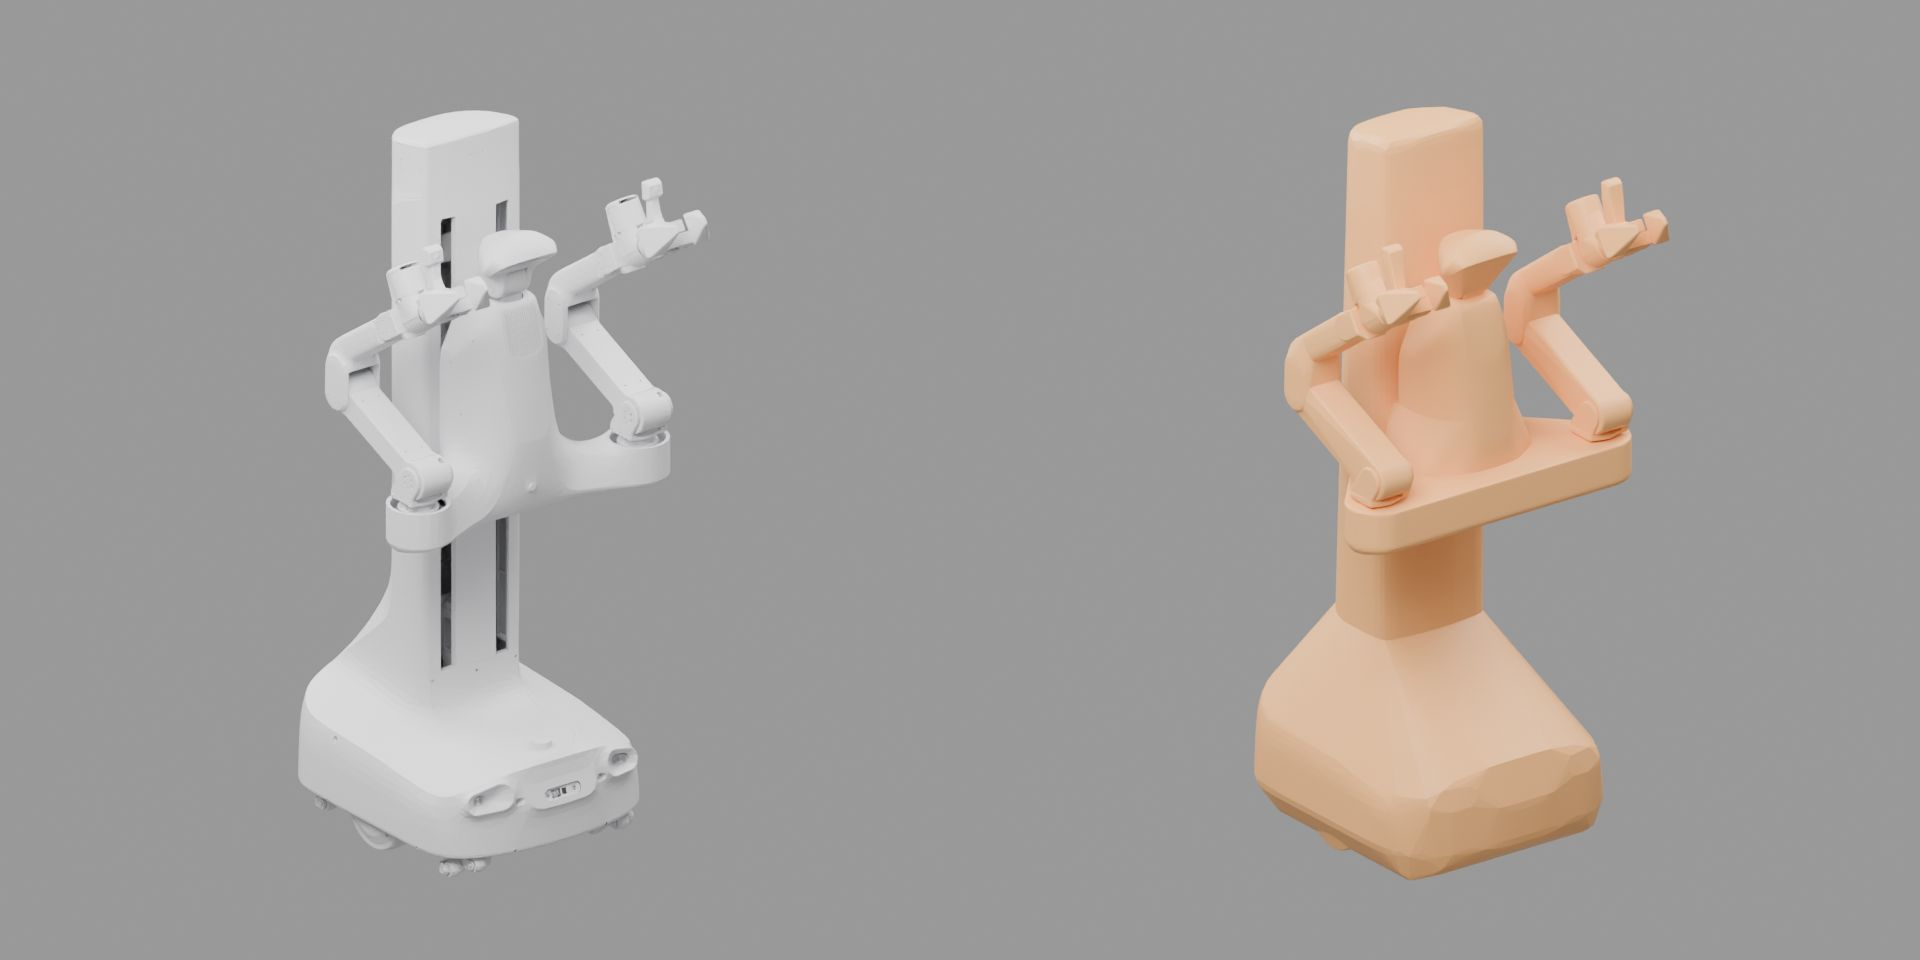
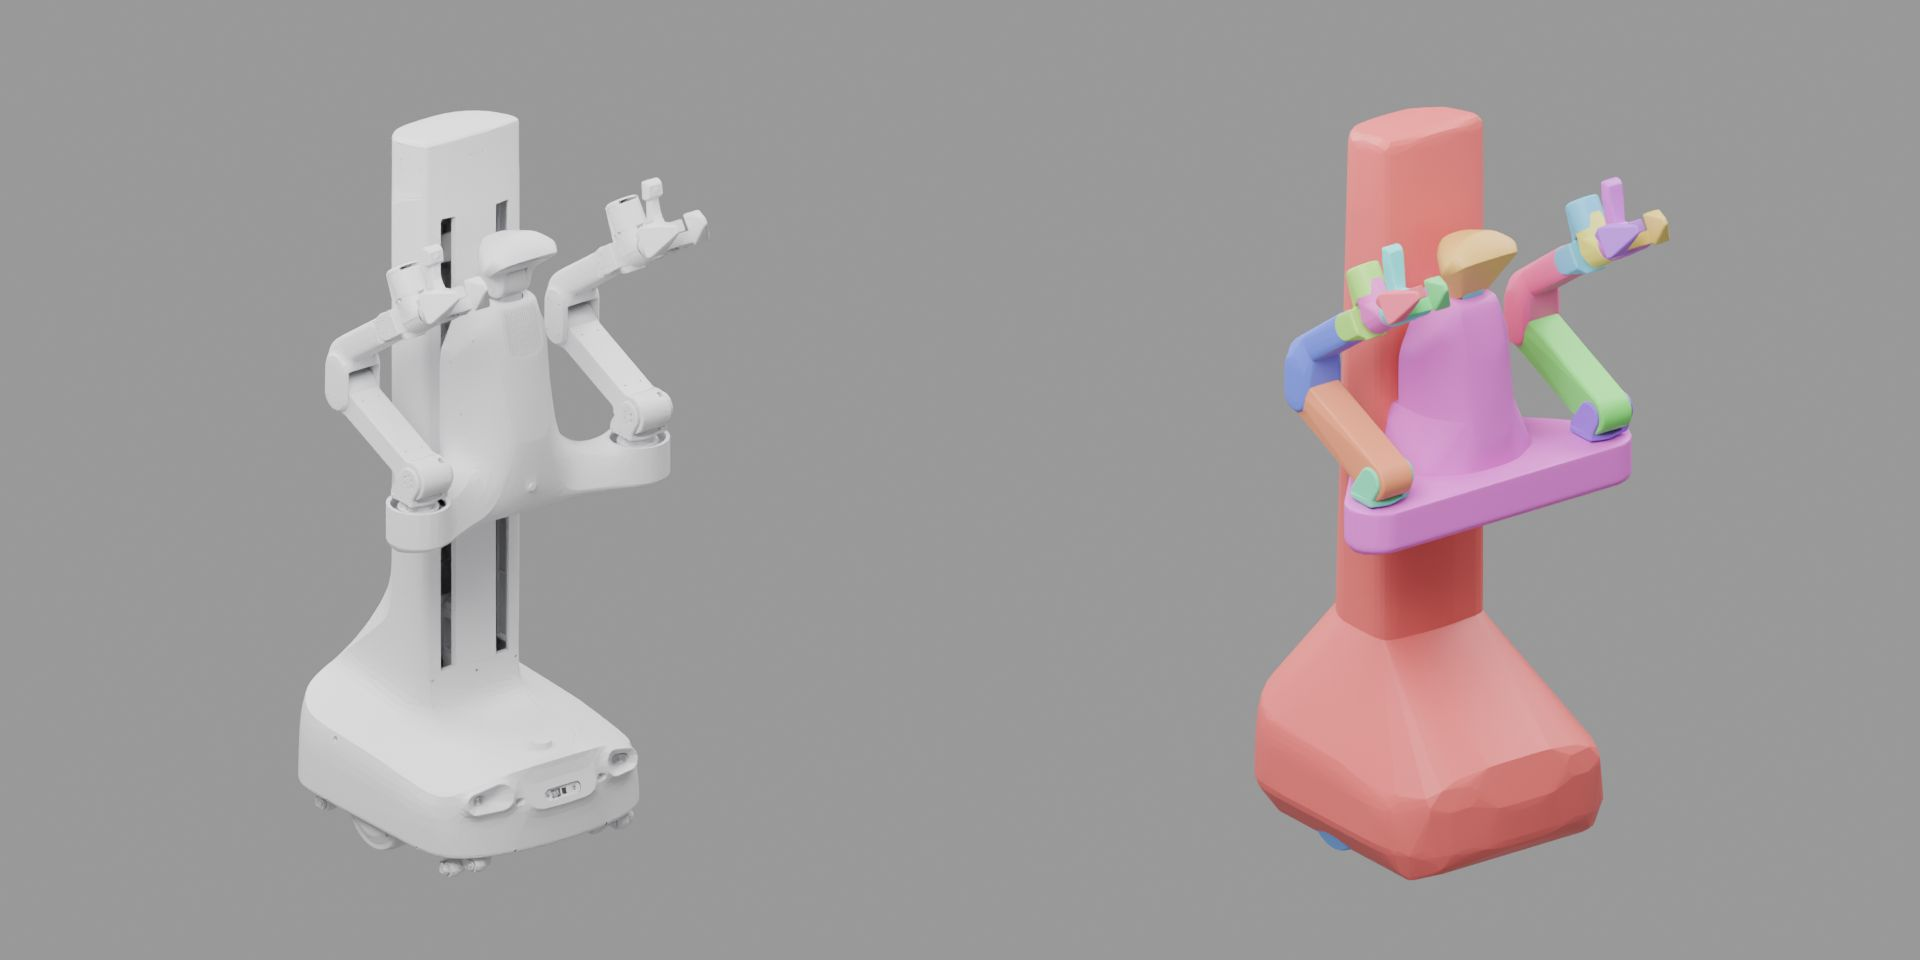
Colour the robot thumbnail's collision panel per rigid body

Changed region(s): [[0.6562, 0.0938, 0.875, 0.9375]]

diff --git a/table_1000/robots/preview.py b/table_1000/robots/preview.py
@@ -1,4 +1,5 @@
-"""Three-quarter thumbnail of a URDF robot: visual meshes left, collision right.
+"""Three-quarter thumbnail of a URDF robot: visual meshes left, collision right
+(one colour per rigid body).
 
 ``python -m table_1000.robots.preview asset_sources/robots/x1pro`` runs Blender
 in the background on this file and writes ``three_quarter.jpg`` (1920 x 960)
@@ -57,7 +58,7 @@ def link_poses(urdf, joints):
 
 
 def parts(urdf, joints):
-    """``{'visual': [(mesh path, 4x4)], 'collision': [...]}`` in the robot frame."""
+    """``{'visual': [(mesh path, 4x4, link)], 'collision': [...]}`` in the robot frame."""
     root, poses = link_poses(urdf, joints)
     result = {'visual': [], 'collision': []}
     for link in root.findall('link'):
@@ -66,7 +67,8 @@ def parts(urdf, joints):
                 mesh = element.find('geometry/mesh')
                 if mesh is not None:
                     path = (Path(urdf).parent / mesh.get('filename')).resolve()
-                    result[kind].append((str(path), (poses[link.get('name')] @ origin(element)).tolist()))
+                    result[kind].append((str(path), (poses[link.get('name')] @ origin(element)).tolist(),
+                                         link.get('name')))
     return result
 
 
@@ -76,18 +78,29 @@ def render(spec):
     from mathutils import Matrix, Vector
     bpy.ops.wm.read_factory_settings(use_empty=True)
     scene = bpy.context.scene
-    groups = {}
-    colours = {'visual': (.78, .78, .8, 1.), 'collision': (.95, .45, .15, 1.)}
+    import colorsys
+    groups, materials = {}, {}
+
+    def material(name, colour):
+        if name not in materials:
+            materials[name] = bpy.data.materials.new(name)
+            materials[name].use_nodes = True
+            materials[name].node_tree.nodes['Principled BSDF'].inputs['Base Color'].default_value = colour
+        return materials[name]
+
+    # Collision bodies get hues spaced by the golden angle, so neighbours differ.
+    bodies = list(dict.fromkeys(link for _, _, link in spec['parts']['collision']))
+    hues = {link: (i * .618034) % 1. for i, link in enumerate(bodies)}
     for kind, entries in spec['parts'].items():
-        material = bpy.data.materials.new(kind)
-        material.use_nodes = True
-        material.node_tree.nodes['Principled BSDF'].inputs['Base Color'].default_value = colours[kind]
         groups[kind] = []
-        for path, transform in entries:
+        for path, transform, link in entries:
             bpy.ops.wm.ply_import(filepath=path)
             obj = bpy.context.selected_objects[0]
             obj.matrix_world = Matrix(transform)
-            obj.data.materials.append(material)
+            if kind == 'visual':
+                obj.data.materials.append(material('visual', (.78, .78, .8, 1.)))
+            else:
+                obj.data.materials.append(material(link, (*colorsys.hsv_to_rgb(hues[link], .85, .8), 1.)))
             groups[kind].append(obj)
     bpy.context.view_layer.update()
     points = [obj.matrix_world @ Vector(corner) for obj in groups['visual'] for corner in obj.bound_box]

diff --git a/asset_sources/robots/x1pro/README.md b/asset_sources/robots/x1pro/README.md
@@ -36,5 +36,5 @@
 "$ISAAC_PYTHON" -m table_1000.robots.preview asset_sources/robots/x1pro --joints '{"lift_joint": 0.4, "head_pitch_joint": 0.3, "right_arm_joint2": 0.4, "right_arm_joint3": -1.0, "left_arm_joint2": 0.4, "left_arm_joint3": -1.0, "right_arm_gripper_left_joint": 0.03, "right_arm_gripper_right_joint": -0.03, "left_arm_gripper_left_joint": 0.03, "left_arm_gripper_right_joint": -0.03}'
 ```
 
-构建约 4 s。检查脚本在地面上保持一个姿态 2 s（4 ms 步长）：22 个刚体、86 个碰撞形状，每步约 1 ms，实时因子约 4，关节跟踪误差小于 1 mrad。缩略图需要 Blender。
+缩略图左侧为外观网格，右侧为碰撞凸块，每个刚体一种颜色。构建约 4 s。检查脚本在地面上保持一个姿态 2 s（4 ms 步长）：22 个刚体、86 个碰撞形状，每步约 1 ms，实时因子约 4，关节跟踪误差小于 1 mrad。缩略图需要 Blender。
 
